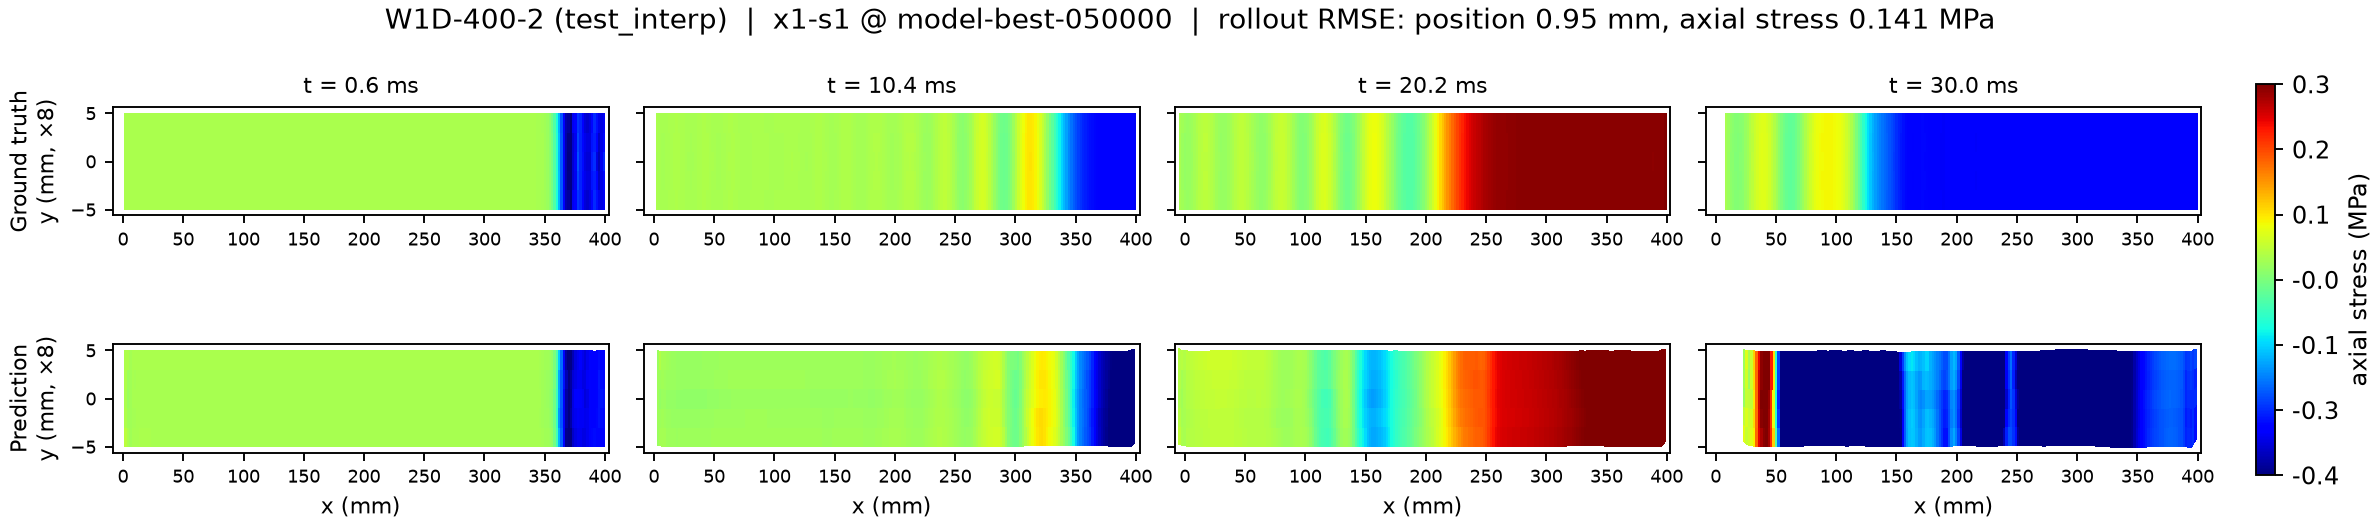
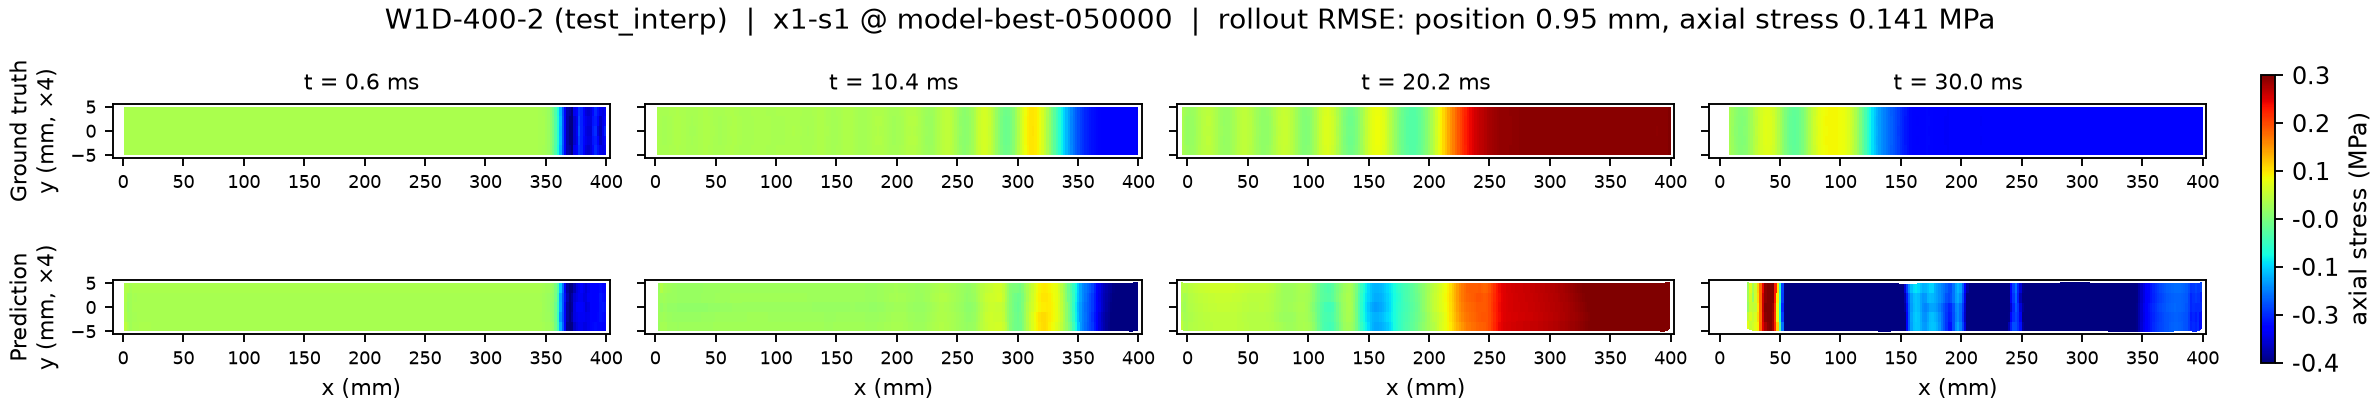
docs: wave landing page opens from the problem; bar figures y-exag x8 -> x4
Align the wave-1D landing page with Taylor's (ADR-0036 shape): the card
gains a two-section _OVERVIEW narrative -- "The problem" (the arrested-bar
stress-wave physics and the surrogate task) and "The entry tier" (the
benchmark's honest role, the interior-holdout split, metrics and QoIs) --
so the generated page now starts from the problem instead of the figures.

Re-render the two bar figures from the blessed x1-s1 rollouts with the
display y-exaggeration halved (x8 -> x4; the bars read too wide at x8,
and the rollout GIF was letterboxed into half its frame). The snapshot
grid height is tightened 3.1 -> 2.4 in to match the thinner strips; both
captions updated. Generator changes live in the gitignored scratch
pipeline (wave_fringe.py Y_EXAG + figsize; new promote_assets.py records
the previously one-off GIF render recipe: every 2nd frame, fps 8, dpi 90).
The error-vs-time figure shows no bar and is untouched.

Fact-check correction surfaced by adversarial review: "~10 traversals per
trajectory" in the card's loading field held only for the 200 mm bars --
at c = sqrt(E/rho) = 70.7 mm/ms over the 30 ms record the counts are
10.6 / 7.1 / 5.3 / 4.2 by length (both scored test_interp cases ~7 and
~5). The loading field and the new narrative now say 4-11 traversals,
by bar length; docs/benchmarks.md re-renders accordingly. The data-dir
archive README/card.json still carry the old wording and will pick this
up at the next archive regeneration.

Changed region(s): [[0.0, 0.4706, 0.995, 0.9706], [0.0, 0.1471, 0.995, 0.4706], [0.1555, 0.0, 0.8395, 0.0882]]

diff --git a/src/structbench/benchmarks/wave_propagation_1d/card.py b/src/structbench/benchmarks/wave_propagation_1d/card.py
@@ -3,6 +3,43 @@
 from ..card import BenchmarkCard, BenchmarkFigure
 from .benchmark import AUX_FIELD, QOIS, TEST_INTERP, TRAIN, VAL
 
+# Landing-page narrative (ADR-0036). Non-derivable prose; the structured facts,
+# splits and baseline numbers are rendered from the card + results registry.
+_OVERVIEW = """\
+## The problem
+
+Set a slender elastic bar moving along its axis and stop it dead at one end:
+a compression front leaps from the impact end, sweeps back along the bar at
+the material wave speed, reflects off the free end, and keeps traversing —
+the textbook one-dimensional stress-wave problem. The particles barely move;
+the travelling stress wave *is* the physics. That leaves a learned surrogate
+nothing to hide behind: it must carry a sharp front through hundreds of
+autoregressive steps and keep the wave speed, the reflection timing, and the
+stress amplitude honest over 4–11 bar traversals, depending on length.
+
+StructBench ships the 2D SPH version: an LS-DYNA `*MAT_ELASTIC` strip
+(scaled toy constants) five particle rows deep, 8 mm wide and 200 / 300 /
+400 / 500 mm long, arrested from an initial axial velocity of 1–8 mm/ms
+(wave speed ~70.7 mm/ms). The task is an **autoregressive next-step
+surrogate** — from a short ground-truth prefix the model advances the
+particle state one output step at a time over the 30 ms record, predicting
+position and the per-particle axial stress. Axial stress is the headline
+target and position the sanity check — the reverse of Taylor 2D's emphasis.
+
+## The entry tier
+
+This is the platform's entry benchmark — 16 linear-elastic cases, 0.23 GB —
+sized for onboarding, the docs tutorial, and CI-scale runs rather than for
+separating strong methods. The split is an interior holdout on the 4-length
+× 4-velocity grid, interpolation only: every length and every velocity
+appears in training, `val` (300 mm at 2, 400 mm at 4 mm/ms) only picks each
+run's checkpoint, and `test_interp` (300 mm at 4, 400 mm at 2 mm/ms) is
+scored. Everything is reported in physical units — axial-stress RMSE in MPa,
+position RMSE in mm — and the quantities of interest read the wave directly:
+arrival time at the 25 / 50 / 75 % gauge stations and the peak stress. The
+reference CGN baseline nails the arrival times and overshoots the peak; the
+numbers are below."""
+
 CARD = BenchmarkCard(
     name="Wave1D-Propagation",
     version="0.1",
@@ -22,7 +59,7 @@ CARD = BenchmarkCard(
     erosion=False,
     loading=(
         "initial velocity 1-8 mm/ms; elastic wave propagation"
-        "; wave speed ~70.7 mm/ms (~10 traversals per trajectory)"
+        "; wave speed ~70.7 mm/ms (4-11 traversals per trajectory, by bar length)"
     ),
     source_units="kg-mm-ms",
     geometry="2D strip, 5 particle rows, {200, 300, 400, 500} mm x 8 mm",
@@ -73,13 +110,14 @@ CARD = BenchmarkCard(
         "first arrival."
     ),
     size_gb=0.23,
+    overview=_OVERVIEW,
     figures=(
         BenchmarkFigure(
             path="assets/wave_rollout.gif",
             caption=(
                 "Ground truth (top) vs CGN prediction (bottom) on held-out "
                 "W1D-300-4 (test_interp): a 300 mm bar at 4 mm/ms initial "
-                "velocity, coloured by axial stress, y-axis exaggerated x8. "
+                "velocity, coloured by axial stress, y-axis exaggerated x4. "
                 "The surrogate tracks the compression front, the free-end "
                 "reflections, and the cycle timing over the 30 ms rollout; "
                 "degradation concentrates in the final ~5 ms."
@@ -94,7 +132,7 @@ CARD = BenchmarkCard(
             caption=(
                 "In-distribution (test_interp, 400 mm bar at 2 mm/ms): ground "
                 "truth (top) vs CGN prediction (bottom), axial stress at "
-                "t = 0.6 / 10.4 / 20.2 / 30.0 ms (y x8). The prediction "
+                "t = 0.6 / 10.4 / 20.2 / 30.0 ms (y x4). The prediction "
                 "reproduces the wavefront position and reflection cycles; "
                 "late-horizon fields roughen and overshoot near the impact "
                 "end (rollout position RMSE 0.95 mm)."

diff --git a/docs/benchmarks/wave_propagation_1d.md b/docs/benchmarks/wave_propagation_1d.md
@@ -2,15 +2,49 @@
 
 # Wave1D-Propagation — StructBench benchmark
 
+## The problem
+
+Set a slender elastic bar moving along its axis and stop it dead at one end:
+a compression front leaps from the impact end, sweeps back along the bar at
+the material wave speed, reflects off the free end, and keeps traversing —
+the textbook one-dimensional stress-wave problem. The particles barely move;
+the travelling stress wave *is* the physics. That leaves a learned surrogate
+nothing to hide behind: it must carry a sharp front through hundreds of
+autoregressive steps and keep the wave speed, the reflection timing, and the
+stress amplitude honest over 4–11 bar traversals, depending on length.
+
+StructBench ships the 2D SPH version: an LS-DYNA `*MAT_ELASTIC` strip
+(scaled toy constants) five particle rows deep, 8 mm wide and 200 / 300 /
+400 / 500 mm long, arrested from an initial axial velocity of 1–8 mm/ms
+(wave speed ~70.7 mm/ms). The task is an **autoregressive next-step
+surrogate** — from a short ground-truth prefix the model advances the
+particle state one output step at a time over the 30 ms record, predicting
+position and the per-particle axial stress. Axial stress is the headline
+target and position the sanity check — the reverse of Taylor 2D's emphasis.
+
+## The entry tier
+
+This is the platform's entry benchmark — 16 linear-elastic cases, 0.23 GB —
+sized for onboarding, the docs tutorial, and CI-scale runs rather than for
+separating strong methods. The split is an interior holdout on the 4-length
+× 4-velocity grid, interpolation only: every length and every velocity
+appears in training, `val` (300 mm at 2, 400 mm at 4 mm/ms) only picks each
+run's checkpoint, and `test_interp` (300 mm at 4, 400 mm at 2 mm/ms) is
+scored. Everything is reported in physical units — axial-stress RMSE in MPa,
+position RMSE in mm — and the quantities of interest read the wave directly:
+arrival time at the 25 / 50 / 75 % gauge stations and the peak stress. The
+reference CGN baseline nails the arrival times and overshoots the peak; the
+numbers are below.
+
 ## Figures
 
 ![Stacked animation of ground-truth and CGN-predicted axial stress waves in a slender bar.](../../assets/wave_rollout.gif)
 
-*Ground truth (top) vs CGN prediction (bottom) on held-out W1D-300-4 (test_interp): a 300 mm bar at 4 mm/ms initial velocity, coloured by axial stress, y-axis exaggerated x8. The surrogate tracks the compression front, the free-end reflections, and the cycle timing over the 30 ms rollout; degradation concentrates in the final ~5 ms.*
+*Ground truth (top) vs CGN prediction (bottom) on held-out W1D-300-4 (test_interp): a 300 mm bar at 4 mm/ms initial velocity, coloured by axial stress, y-axis exaggerated x4. The surrogate tracks the compression front, the free-end reflections, and the cycle timing over the 30 ms rollout; degradation concentrates in the final ~5 ms.*
 
 ![Prediction-vs-truth axial-stress snapshots for the 400 mm bar, in-distribution.](../../assets/wave_axial_interp_400_2.png)
 
-*In-distribution (test_interp, 400 mm bar at 2 mm/ms): ground truth (top) vs CGN prediction (bottom), axial stress at t = 0.6 / 10.4 / 20.2 / 30.0 ms (y x8). The prediction reproduces the wavefront position and reflection cycles; late-horizon fields roughen and overshoot near the impact end (rollout position RMSE 0.95 mm).*
+*In-distribution (test_interp, 400 mm bar at 2 mm/ms): ground truth (top) vs CGN prediction (bottom), axial stress at t = 0.6 / 10.4 / 20.2 / 30.0 ms (y x4). The prediction reproduces the wavefront position and reflection cycles; late-horizon fields roughen and overshoot near the impact end (rollout position RMSE 0.95 mm).*
 
 ![Line charts of rollout position and axial-stress error over time for four cases.](../../assets/wave_rollout_error_vs_time.png)
 
@@ -19,7 +53,7 @@
 ## Data at a glance
 
 - Solver: LS-DYNA (SPH; erosion: no)
-- Loading: initial velocity 1-8 mm/ms; elastic wave propagation; wave speed ~70.7 mm/ms (~10 traversals per trajectory)
+- Loading: initial velocity 1-8 mm/ms; elastic wave propagation; wave speed ~70.7 mm/ms (4-11 traversals per trajectory, by bar length)
 - Geometry: 2D strip, 5 particle rows, {200, 300, 400, 500} mm x 8 mm
 - Source units: kg-mm-ms (canonical storage is strict SI, ADR-0012)
 - Cases: 16 (train 12, val 2, test_interp 2)

diff --git a/docs/benchmarks.md b/docs/benchmarks.md
@@ -10,7 +10,7 @@ Note: `sph/stress` and `sph/strain` are full 6-component Voigt tensors; each ben
 | NotchBeam2D-Bend | LS-DYNA | SPH | no | constant-velocity pin, 3-point bend, 8-20 mm/s | 111 | 2394-8280 | 502 | max_principal_strain (-) |
 | NotchBeam2D-Impact | LS-DYNA | SPH | no | drop-weight impact, initial velocity 40-160 mm/s, impactor shapes Bullet/Rectangular/Sphere | 110 | 4264-12966 | 502 | max_principal_strain (-) |
 | Taylor2D-Impact | LS-DYNA | SPH | no | rigid-wall impact; initial velocity 100-200 m/s | 33 | 4800-8000 | 152 | von_mises_stress (MPa) |
-| Wave1D-Propagation | LS-DYNA | SPH | no | initial velocity 1-8 mm/ms; elastic wave propagation; wave speed ~70.7 mm/ms (~10 traversals per trajectory) | 16 | 500-1250 | 302 | axial_stress (MPa) |
+| Wave1D-Propagation | LS-DYNA | SPH | no | initial velocity 1-8 mm/ms; elastic wave propagation; wave speed ~70.7 mm/ms (4-11 traversals per trajectory, by bar length) | 16 | 500-1250 | 302 | axial_stress (MPa) |
 
 ## NotchBeam2D-Bend (v0.1)
 